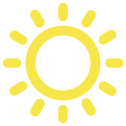
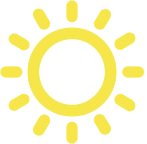
ui fixes

diff --git a/src/components/SelfTest.js b/src/components/SelfTest.js
@@ -5,6 +5,7 @@ import PropTypes from 'prop-types'
 import { Creators } from '../actions/ble'
 
 import textStyles from './TextStyles'
+import Separator from './Separator'
 import BigButton from './BigButton'
 import SetupLayout from './SetupLayout'
 
@@ -14,6 +15,9 @@ import switchOn from './assets/images/switch-on.png'
 import switchOff from './assets/images/switch-off.png'
 import cloudy from './assets/images/cloudy.png'
 import sun from './assets/images/sun.png'
+import minimumTrack from './assets/images/minimum-track.png'
+import maximumTrack from './assets/images/maximum-track.png'
+import slider from './assets/images/slider.png'
 
 const LED_PLACES = ['Bottom, side A', 'Middle, side A', 'Top, side A', 'Bottom, side B', 'Middle, side B', 'Top, side B'];
 const LED_MIN_DUTY = 550
@@ -48,6 +52,7 @@ class SelfTest extends React.Component {
               <Image source={next} />
             </TouchableOpacity>
           </View>
+          <Separator />
           <View style={layoutStyles.switches}>
             <View style={layoutStyles.radio}>
               <Text style={textStyles.text}>Power switch:{' '}</Text>
@@ -62,6 +67,9 @@ class SelfTest extends React.Component {
                 <Slider value={duty}
                   minimumValue={LED_MIN_DUTY}
                   maximumValue={LED_MAX_DUTY}
+                  minimumTrackImage={minimumTrack}
+                  maximumTrackImage={maximumTrack}
+                  thumbImage={slider}
                   onSlidingComplete={this._handleBrightnessChanged}
                   style={layoutStyles.sliderTrack} />
                 <Image style={layoutStyles.sliderPic} source={sun} />
@@ -137,6 +145,7 @@ const layoutStyles = StyleSheet.create({
     alignItems: 'center',
     justifyContent: 'space-evenly',
     margin: 25,
+    marginTop: 0,
   },
   radio: {
     flexDirection: 'row',
@@ -148,6 +157,7 @@ const layoutStyles = StyleSheet.create({
   },
   slider: {
     flexDirection: 'row',
+    alignItems: 'center',
     justifyContent: 'center',
     marginLeft: 10,
     marginRight: 10,

diff --git a/src/components/Classic.js b/src/components/Classic.js
@@ -6,6 +6,7 @@ import PropTypes from 'prop-types'
 import { Creators } from '../actions/ble'
 
 import textStyles from './TextStyles'
+import Separator from './Separator'
 import BigButton from './BigButton'
 import SetupLayout, { setupStyles } from './SetupLayout'
 
@@ -105,6 +106,7 @@ class Classic extends React.Component {
       <View style={layoutStyles.container}>
         <Text style={setupStyles.title}>2. Classic sunrise/sunset timer</Text>
         {this.renderParam('on')}
+        <Separator />
         {this.renderParam('off')}
       </View>
     )
@@ -125,12 +127,10 @@ class Classic extends React.Component {
   }
 
   _handleEditParam = (param) => () => {
-    console.log('_handleEditParam', param);
     this.setState({editParam: param})
   }
 
   _handleParamChanged = (param) => (value) => {
-    console.log('_handleParamChanged', param);
     const { device, dispatch } = this.props
     const params = value.split('h')
     console.log(params, parseInt(params[0]), parseInt(params[1]))

diff --git a/src/components/Separator.js b/src/components/Separator.js
@@ -1,0 +1,26 @@
+import React from 'react'
+import { View, Text, StyleSheet, Image, } from 'react-native'
+
+import separator from './assets/images/separator.png'
+
+export default class Separator extends React.Component {
+
+  render() {
+    return (
+      <View style={styles.container}>
+        <Image source={separator} />
+      </View>
+    )
+  }
+
+}
+
+const styles = StyleSheet.create({
+  container: {
+    alignItems: 'center',
+    justifyContent: 'center',
+    width: '100%',
+    margin: 20,
+    marginLeft: 10, marginRight: 10,
+  }
+})
